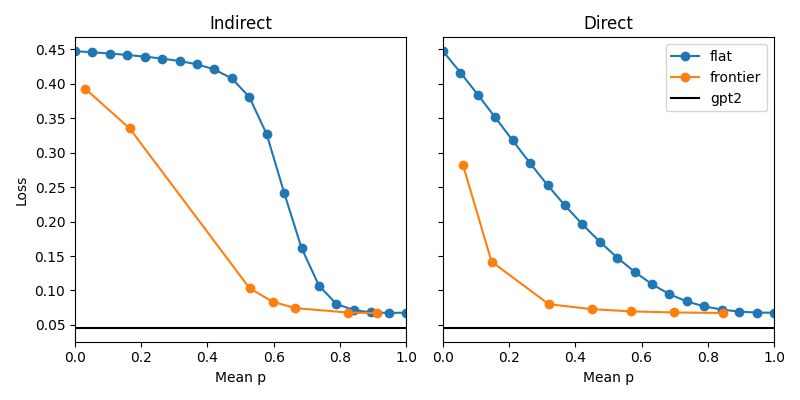
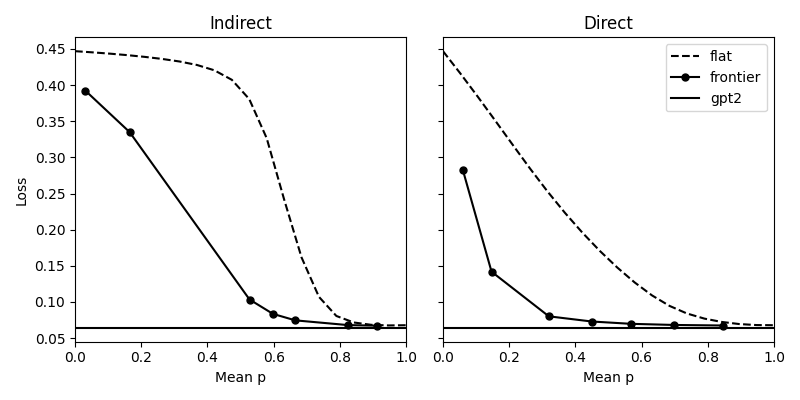
improve plots

diff --git a/outliner/run.py b/outliner/run.py
@@ -94,7 +94,7 @@ def loss_for_p(p: float, is_direct: bool, steps=4, **kwargs) -> float:
 
 
 def compute_losses_for_p(**kwargs):
-    ps = torch.linspace(0, 1, 20).tolist()
+    ps = torch.linspace(0, 1, 30).tolist()
     print("Computing indirect losses:")
     indirect_losses = [loss_for_p(p, is_direct=False, **kwargs) for p in tqdm(ps)]
     print("Computing direct losses:")
@@ -109,13 +109,14 @@ def compute_losses_for_p(**kwargs):
 
 
 losses = get_maybe_cached("losses_for_p", compute_losses_for_p)
-plt.plot(losses["ps"], losses["indirect_losses"], "-o", label="indirect")
-plt.plot(losses["ps"], losses["direct_losses"], "-o", label="indirect")
+plt.plot(losses["ps"], losses["indirect_losses"], label="indirect")
+plt.plot(losses["ps"], losses["direct_losses"], label="direct")
 plt.axhline(losses["gpt_avg_loss"], color="k", label="gpt2")
 
 plt.ylabel("Loss")
 plt.xlabel("p")
 plt.gcf().set_size_inches(5, 5)
+plt.xlim(0, 1)
 plt.legend()
 
 # %% [markdown]
@@ -254,8 +255,8 @@ def get_mean_p(snapshot: ParameterSnapshot) -> float:
 
 def frontier_plot(
     flat_ps,
-    tens,
-    flat_gpt_loss,
+    flat_losses,
+    flat_gpt_loss: Optional[float],
     frontier_infos: List[ExperimentInfo],
     ax: Optional[plt.Axes] = None,
     xlabel="Mean p",
@@ -263,21 +264,25 @@ def frontier_plot(
     title=None,
     legend=False,
     normalize=False,
+    color="black",
 ):
     ax = plt.gca() if ax is None else ax
     if normalize:
-        norm = lambda x: (x - flat_gpt_loss) / (tens[0] - flat_gpt_loss)
+        norm = lambda x: (x - flat_losses[-1]) / (flat_losses[0] - flat_losses[-1])
     else:
         norm = lambda x: x
 
-    ax.plot(flat_ps, norm(torch.tensor(tens)), "-o", label="flat")
+    ax.plot(flat_ps, norm(torch.tensor(flat_losses)), ls="dashed", label="flat", ms=5, color=color)
     ax.plot(
         [get_mean_p(info.snapshot) for info in frontier_infos],
         norm(torch.tensor([info.val_loss for info in frontier_infos])),
         "-o",
         label="frontier",
+        ms=5,
+        color=color,
     )
-    ax.axhline(norm(flat_gpt_loss), color="k", label="gpt2")
+    if flat_gpt_loss is not None:
+        ax.axhline(norm(flat_gpt_loss), color="k", label="gpt2")
     ax.set_xlim(0, 1)
     ax.set_xlabel(xlabel)
     ax.set_ylabel(ylabel)
@@ -310,13 +315,13 @@ frontier_plot(
 )
 
 plt.tight_layout()
-fig.savefig(IMG_FOLDER + "frontiers.png")
+# fig.savefig(IMG_FOLDER + "frontiers.png")
 
 # %% [markdown]
 """
 What does this show?
 
-The more distributed the behavior, the more 
+The more distributed the behavior, the more down and to the left we'd expect the frontier to be.
 
 """
 
@@ -324,6 +329,8 @@ The more distributed the behavior, the more
 
 """
 # Testing on a specific classification subtask
+
+What if we narrow the scope of our investigation? In particular, we'll try to determine which parts of the model are resposible for determining if the current sentance is completed. We'll do this by interpreting the output of the model as if it were a classifier for a certain subset of tokens (any tokens that contain a period, exclamation point, or question mark).
 """
 
 tokenizer: PreTrainedTokenizerBase = get_base_model().tokenizer  # type: ignore
@@ -355,9 +362,14 @@ axs[0, 1].set_title("Direct")
 plt.tight_layout()
 fig.savefig(IMG_FOLDER + "punctuation.png")
 
-# %%
+# %% [markdown]
 
-# %%
+"""
+We can make a frontier plot once again.
+"""
+
+# training with different reg_coeffs
+
 reg_coeffs = [0.002, 0.01, 0.05, 0.1, 0.2, 0.5, 1]
 eos_frontier_hypers = [dataclasses.replace(eos_base_hypers, reg_coeff=c) for c in reg_coeffs]
 eos_frontier_indirect_infos = run_sweep("eos_frontier_indirect", eos_frontier_hypers)
@@ -367,22 +379,13 @@ eos_frontier_hypers = [
 ]
 eos_frontier_direct_infos = run_sweep("eos_frontier_direct", eos_frontier_hypers)
 
-# %%
+# flat losses
 
 eos_flat_losses = get_maybe_cached(
     "eos_losses_for_p", lambda: compute_losses_for_p(classification_subset=eos_toks_ids)
 )
-plt.plot(eos_flat_losses["ps"], eos_flat_losses["indirect_losses"], "-o", label="indirect")
-plt.plot(eos_flat_losses["ps"], eos_flat_losses["direct_losses"], "-o", label="direct")
-plt.axhline(eos_gpt_loss, color="k", label="gpt2")
 
-plt.ylabel("Loss")
-plt.xlabel("p")
-plt.gcf().set_size_inches(5, 5)
-plt.legend()
-# %%
-
-fig, axs = plt.subplots(1, 2, figsize=(8, 4), sharey=True)
+fig, axs = plt.subplots(1, 2, sharey=True, figsize=(8, 4))
 
 frontier_plot(
     eos_flat_losses["ps"],
@@ -406,51 +409,61 @@ frontier_plot(
 plt.tight_layout()
 fig.savefig(IMG_FOLDER + "eos_frontiers.png")
 
-# %%
+# %% [markdown]
 
-fig, axs = plt.subplots(2, 2, figsize=(6, 6), sharey="row", sharex=True)
-normalize = True
+"""
+Comparing frontiers for both next-token-classificaiton and end of sentance classification. Note the y-axis is now normalized (by the loss difference between p=0 and p=1).
+"""
+
+fig, axs = plt.subplots(1, 2, figsize=(8, 4), sharey="row", sharex=True)
+# next tokens
 frontier_plot(
     flat_losses["ps"],
     flat_losses["indirect_losses"],
-    flat_losses["gpt_avg_loss"],
+    None,
     frontier_indirect_infos,
-    ax=axs[0][0],
-    title="Indirect",
+    ax=axs[0],
     xlabel=None,
-    normalize=normalize,
+    normalize=True,
+    color="cornflowerblue",
 )
 
 frontier_plot(
     flat_losses["ps"],
     flat_losses["direct_losses"],
-    flat_losses["gpt_avg_loss"],
+    None,
     frontier_direct_infos,
-    ax=axs[0][1],
+    ax=axs[1],
     ylabel=None,
-    title="Direct",
     legend=True,
     xlabel=None,
-    normalize=normalize,
+    normalize=True,
+    color="cornflowerblue",
 )
+# next tokens
 frontier_plot(
     eos_flat_losses["ps"],
     eos_flat_losses["indirect_losses"],
-    eos_gpt_loss,
+    None,
     eos_frontier_indirect_infos,
-    ax=axs[0][0],
-    normalize=normalize,
+    ax=axs[0],
+    title="Indirect",
+    normalize=True,
+    color="maroon",
 )
 frontier_plot(
     eos_flat_losses["ps"],
     eos_flat_losses["direct_losses"],
-    eos_gpt_loss,
+    None,
     eos_frontier_direct_infos,
-    ax=axs[0][1],
+    ax=axs[1],
+    title="Direct",
     ylabel=None,
-    normalize=normalize,
+    normalize=True,
+    color="maroon",
 )
 
 plt.tight_layout()
+axs[1].legend(["next token flat", "next token frontier", "eos flat", "eos frontier"])
 fig.savefig(IMG_FOLDER + "frontier_comparisons.png")
 # %%
